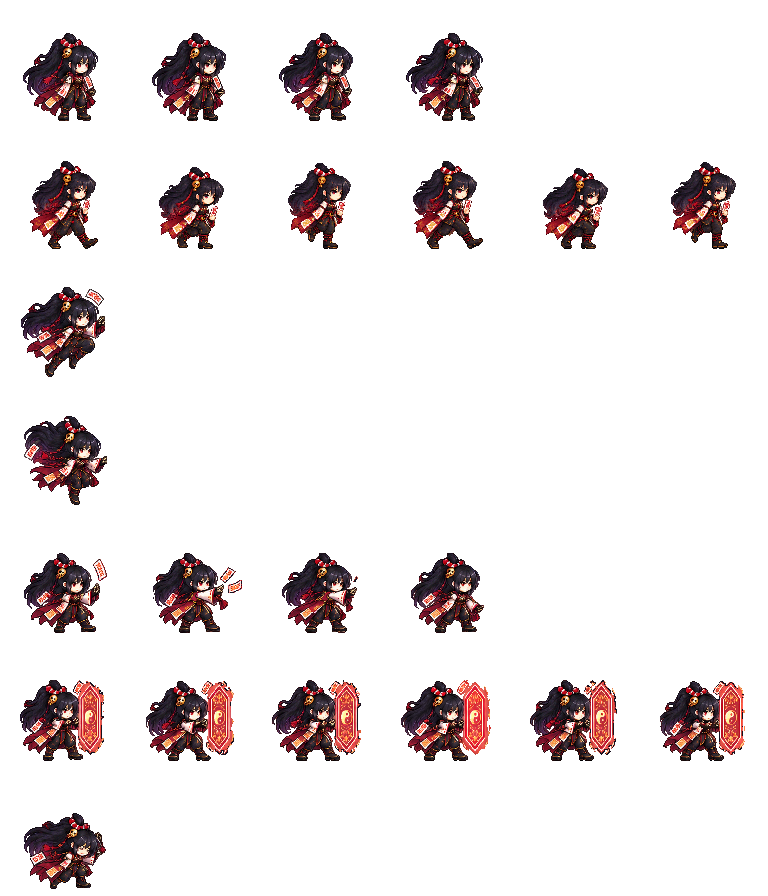
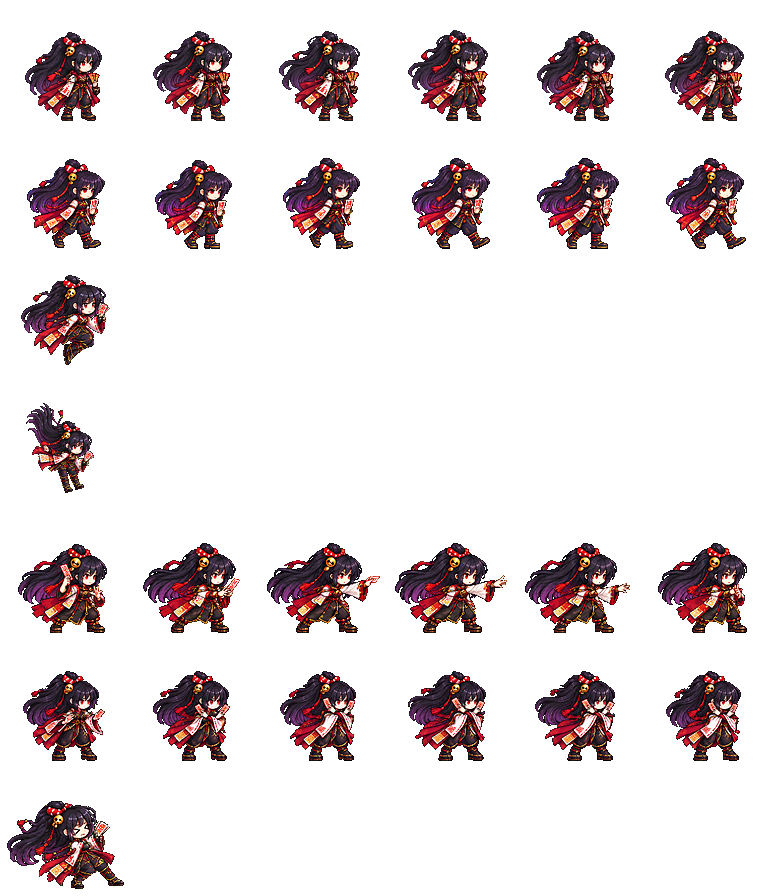
Yuki redrawn in the game: 6-frame rows, 192-px move sheet, a new tumble row, idle 6.3 fps
The user adopted every Yuki candidate.
- yuki_sheet (128): idle 6 @6.3, walk 6, jump/fall/hurt 1, attack 6 (fallback; every J plays a
  talisman row), shield 6 - Yuki.SHEET_ROWS.
- yuki_moves_sheet (192): talisman side/up/air-side/air-down, ground_ward, seal_place,
  seal_activate, grand_ward at 6 frames (same lengths), and tumble (new: strong launches played the
  hurt frame before).
test_moves_sheet plays Yuki's tumble from a strong launch; without the sheet it keeps the hurt
frame. Full suite passes (soak 272.4 s, nan 0).

diff --git a/design/ROADMAP.md b/design/ROADMAP.md
@@ -63,7 +63,7 @@
 - [x] 공격 범위·이펙트 ×2 → ×1.5 (2026-10-09 사용자), 렐름 ×1.5 (2026-10-08 근무, D27): `scripts/GameScale.gd`, 카메라 추적 + 화면 밖 상대 화살표, 기본 공격·스킬 이펙트 아트 16종(Codex ART-13). 16판 전후: 길이 중앙값 271 → 307초, 승률 쏠림 완화(Frey 56 → 25%). 남은 것: 렐름 배경 아트를 큰 크기로 다시 그릴지(지금은 1.5배 확대), 배율 느낌(사람)
 - [x] 실제 화면 아트 QA와 보강 (2026-10-08 오후): Codex QA-15(71장) → HUD 정리(D29) + Codex ART-14~17(효과·궁극기 1배, 렐름 배경 1.5배, 공격 아트 2배, 위험 요소 3부분 기둥·지진 균열·Yuki 부적·몬스터 테두리), 스킬 아이콘 24개(Codex ART-18). 남은 것(사람): 불기둥 이음매 작은 돌기, 몬스터 테두리 강도, 아이콘 느낌
 - [x] 그림 대량 보강 (2026-10-10 저녁 루틴, Codex 빌더 3개 × 9카드 ART-23~31, 연결 코드까지 Codex): 기술별 스프라이트 줄 — Frey 8줄·Luna 6줄·Brave 9줄(날아감 포함), Nova 남·여·Yuki·Rio 남·여 각 8줄(로더: `<id>[_<body>]_moves_sheet.png`, 없으면 공격 4칸); 늘 도형이던 스킬 효과 18종 + 포털·봉인·붕괴·경고; 렐름 몬스터 7종(+ART-31 두 번째); 렐름 문장·컷인 띠·HUD 9-slice 틀·시작 화면 배경; 캐릭터별 타격 불꽃 6종·아머/기절 아이콘; Rio 공격·방어 줄 몸 크기 복원. 검사: `test_sprite_frames`가 기술 시트 가장자리도 검사. 남은 것(사람): 새 동작·효과·HUD의 느낌, Frey 착지 2칸 크기, Nova 효과 안쪽 옅은 결
-- [ ] 스프라이트 정상화 (2026-10-11~, D32 + CuSurvive 한 장 방식 `reports/sprite-method-analysis-2026-10-13.md`): 공통 정리 도구 `tools/sprite_pipeline/`(시트 배율 하나·발 y=120·팔레트·1px 테두리·생성 칸 넘침 검사), 전체 점검 QA-18(476프레임, 다시 그림 6줄 · 손질 대부분은 이펙트가 그림에 박힌 것), 후보 `art/bakeoff/`(캐릭터마다 새 기준 대기 + Frey 6줄 · Rio 여 3줄 · Nova 남·여 · Brave · Luna · Yuki) — **사용자가 모션 뷰어에서 채택 → 리드가 게임 시트에 반영**. 다음: 이펙트를 뺀 나머지 줄, Rio 남, 몬스터 **Frey 완료 (2026-10-14, D33~D35, ART-37~41):** 13동작을 6프레임·머리 크기 0.96~1.02로 다시 그려 게임에 넣었다(기본 시트 128, 기술 시트 192, J 3연타는 기술 시트 `attack_chain`). 나머지 캐릭터도 같은 방식으로 한 명씩 진행한다. **Luna·Brave Luna 완료 (2026-10-14, D36·D37, ART-42~46):** Brave는 사용자가 고른 ② 포니테일 전투복, 궁극기는 12프레임 특별 변신(1초, 착지 프레임에서 변신·폭발), 모든 대기 동작 6.3fps. 다음: Yuki(ART-48~), 메인 아트(ART-47).
+- [ ] 스프라이트 정상화 (2026-10-11~, D32 + CuSurvive 한 장 방식 `reports/sprite-method-analysis-2026-10-13.md`): 공통 정리 도구 `tools/sprite_pipeline/`(시트 배율 하나·발 y=120·팔레트·1px 테두리·생성 칸 넘침 검사), 전체 점검 QA-18(476프레임, 다시 그림 6줄 · 손질 대부분은 이펙트가 그림에 박힌 것), 후보 `art/bakeoff/`(캐릭터마다 새 기준 대기 + Frey 6줄 · Rio 여 3줄 · Nova 남·여 · Brave · Luna · Yuki) — **사용자가 모션 뷰어에서 채택 → 리드가 게임 시트에 반영**. 다음: 이펙트를 뺀 나머지 줄, Rio 남, 몬스터 **Frey 완료 (2026-10-14, D33~D35, ART-37~41):** 13동작을 6프레임·머리 크기 0.96~1.02로 다시 그려 게임에 넣었다(기본 시트 128, 기술 시트 192, J 3연타는 기술 시트 `attack_chain`). 나머지 캐릭터도 같은 방식으로 한 명씩 진행한다. **Luna·Brave Luna 완료 (2026-10-14, D36·D37, ART-42~46):** Brave는 사용자가 고른 ② 포니테일 전투복, 궁극기는 12프레임 특별 변신(1초, 착지 프레임에서 변신·폭발), 모든 대기 동작 6.3fps. 다음: Yuki(ART-48~), 메인 아트(ART-47). **Yuki 완료 (2026-10-14, ART-48~50):** 16줄 6프레임(새 `tumble` 포함), 메인 아트 새로. **메인 아트:** Frey 1·Luna 1·Brave Luna 1(ART-47). 남은 캐릭터: Nova(남·여), Rio(남·여).
 - 캐릭터 선택창(메인 일러스트 전신 사용), 일반 효과(`assets/art/effects/`)도 1배 해상도로 맞출지
 - 제목 'Smash Nine Realms'는 가제 — 로고는 임시
 - 효과음·히트 사운드, 게임패드

diff --git a/smash-nine-prototype/assets/art/yuki/yuki_moves_README.md b/smash-nine-prototype/assets/art/yuki/yuki_moves_README.md
@@ -1,36 +1,33 @@
-# Yuki move sheet
+# Yuki sheets (redrawn 2026-10-14, D33–D37)
 
-`yuki_moves_sheet.png` supplements Yuki's seven-row live sheet with per-move poses.
+Both Yuki sheets were rebuilt from the accepted motion-viewer candidates (`art/bakeoff/yuki/`, cards `design/tasks/CODEX-ART-48.md` and `CODEX-ART-49.md`) with `tools/sprite_pipeline/assemble.py`, pixel for pixel. The method is the Frey and Luna method (`reports/frey-rework-2026-10-14.md`).
 
-## Contract
+Detail target for Yuki: at least 90 % of her old idle's interior detail (≥ 80). Her black hair and dark clothes give less contrast than Frey's or Luna's, so the flat 90 does not apply.
 
-- Canvas: 768×1024 RGBA PNG
-- Grid: 6 columns × 8 rows, 128×128 per cell
-- Facing right; used frames left-aligned; unused cells transparent
+## `yuki_sheet.png`: base sheet (128 px, feet y=120, rows `Yuki.SHEET_ROWS`)
 
-| Row | Animation | Frames | Timing / preview fps | Input and move | Pose sequence |
-|---:|---|---:|---|---|---|
-| 0 | `talisman_side` | 4 | 0.21s / 19.0fps | ground neutral/side J | sign → draw → flick → recover |
-| 1 | `talisman_up` | 4 | 0.24s / 16.7fps | up J, air up J | low sign → raise → upward flare → recover |
-| 2 | `ground_ward` | 4 | 0.26s / 15.4fps | ground down J | step → sweep → low ward → recover |
-| 3 | `talisman_air_side` | 4 | 0.18s / 22.2fps | air side J | tuck → draw → straight throw → recoil |
-| 4 | `talisman_air_down` | 4 | 0.27s / 14.8fps | air down J | turn → aim down → falling cast → float |
-| 5 | `seal_place` | 5 | 0.32s / 15.6fps | K · place seal | focus → draw → aim → place → sign |
-| 6 | `seal_activate` | 5 | 0.30–0.32s / 15.6–16.7fps | L · activate seals / emergency ward | gather → sign → lift → ignite → recover |
-| 7 | `grand_ward` | 6 | 0.62s / 9.7fps | I · Grand Ward start | focus → complex sign → orbit → glyph → cast → recover |
+| Row | Frames | FPS | Source |
+| --- | ---: | ---: | --- |
+| idle | 6 | 6.3 (D37) | `yuki-idle-v2` (the anchor, 2.5 heads) |
+| walk | 6 | 10 | `yuki-walk-v1` |
+| jump | 1 | 1 | `yuki-jump-v1` |
+| fall | 1 | 1 | `yuki-fall-v1` |
+| attack | 6 | 28.5 | `yuki-attack-v1`: a fallback only, since every J plays a talisman row |
+| shield | 6 | 12 | `yuki-shield-v1` |
+| hurt | 1 | 1 | `yuki-hurt-v1` |
 
-## Source and prompt
+## `yuki_moves_sheet.png`: move sheet (192 px, feet y=152, D34)
 
-- Built-in ImageGen source: `yuki_moves_source.png` (1160×1355).
-- References: `yuki_sheet.png` for scale/pixels and `yuki_illustration.png` for identity.
-- Prompt invariant: same high ponytail, red-white cord, plum/vermilion/ivory shrine coat,
-  talismans and yin-yang clasp; eight ordered rows; hard pixels; transparent; no text.
+| Row | Frames | FPS | Move | Source |
+| --- | ---: | ---: | --- | --- |
+| `talisman_side` | 6 | 28.5 | neutral/side J: a quick straight throw | `yuki-talisman_side-v3` |
+| `talisman_up` | 6 | 25 | up/air-up J | `yuki-talisman_up-v1` |
+| `ground_ward` | 6 | 23.1 | down J: slaps a talisman on the ground | `yuki-ground_ward-v2` (re-normalised to the anchor head) |
+| `talisman_air_side` | 6 | 33.3 | air-side J | `yuki-talisman_air_side-v1` |
+| `talisman_air_down` | 6 | 22.2 | air-down J | `yuki-talisman_air_down-v2` (re-normalised to the anchor head) |
+| `seal_place` | 6 | 18.7 | K: places a binding seal | `yuki-seal_place-v1` |
+| `seal_activate` | 6 | 19.2 | L: hand sign, palms out | `yuki-seal_activate-v1` |
+| `grand_ward` | 6 | 9.7 | I: the Four-Direction Grand Ward ritual | `yuki-grand_ward-v1` |
+| `tumble` | 6 | 21, loop | **new** strong-launch hitstun (before: the hurt frame) | `yuki-tumble-v2` (re-normalised to the anchor head) |
 
-## Processing and checks
-
-Godot `Image` processing uses dynamic row gutters and nearest reduction only (scale
-0.7040). Alpha is binary, unused cells are empty and components below 3px are removed.
-The neutral scale anchor is +1px from live idle dark-body height. The large red-orange
-`grand_ward` and `seal_activate` effects are intentionally dense; their contrast and
-the decorative unreadable marks on the papers need human review.
-
+No effects are drawn into these frames. The game draws the talismans in flight, the waves, the seals, the barrier and the pulses.

diff --git a/AGENTS.md b/AGENTS.md
@@ -98,6 +98,7 @@ A run fails if Godot prints `SCRIPT ERROR`, `ERROR` or `Parse Error`, even with 
 | builder + analyst (2026-10-11~13: D32 pilot and the CuSurvive one-sheet method) | `design/tasks/CODEX-ART-32.md` … `CODEX-ART-36.md`, `CODEX-QA-18.md`, prompt `CODEX-2026-10-13.prompt.md` | per card | ART-32 Frey rebuilt under D32 (pasted heads — replaced by ART-33 `c77f516`); ART-34 walk cycles `0cca2ce`, `90b7223`; ART-35 shared normaliser `tools/sprite_pipeline/` + viewer bake-off `5f83693`; QA-18 full sprite inspection (476 frames) `fcaaa7f`; ART-36 redraw **candidates** in `art/bakeoff/` (not game sheets; the user picks in the motion viewer) — see `routine/2026-10-13-work/` |
 | builder (2026-10-13~14: Frey alone, D33–D35) | `design/tasks/CODEX-ART-37.md` … `CODEX-ART-41.md` (+ `.prompt.md`) | per card | ART-37 detail-preserving shrink (LANCZOS + unsharp, despill, no palette) + 6-frame idle/J chain `885a268`; ART-38 the other 11 rows at 6 frames `c920893`; ART-39 head-size round (`tools/sprite_pipeline/head_scale.py`, lead tool) `de2dde2`; ART-40 move rows in 192-px cells at head scale 0.98–1.02 `2ec6d70`; ART-41 descent redone as a dive that slams the sword in `89d312d`. User accepted all (D35: this is the sprite method from now on); **in the game** `7891527` (192-px move sheet support `cad83cd`, `assemble.py`, adopted candidates flagged `"adopted"`) — see `reports/frey-rework-2026-10-14.md` |
 | builder ×2 (2026-10-14: Luna and Brave Luna, D36/D37) | `design/tasks/CODEX-ART-42.md` … `CODEX-ART-46.md` (+ `.prompt.md`) | per card | ART-42 anchors (not kept: Luna head 0.92 → 2.4 heads, Brave held stars); ART-43 Luna anchor at 2.2 heads + 11 rows; ART-44 three Brave designs → user picked ②; ART-45 Brave rows; ART-46 the special 12-frame transformation (lead re-normalised: it came out 1.2× big). All **in the game** — see `reports/luna-rework-2026-10-14.md` |
+| builder ×2 (2026-10-14: main art, Yuki) | `design/tasks/CODEX-ART-47.md` … `CODEX-ART-50.md` (+ `.prompt.md`) | per card | ART-47 main art for Frey, Luna, Brave Luna (2 variants each; user picked Frey 1, Luna 1 — Luna 2 had a wrong arm —, Brave 1) `c7a99bf`; ART-48 Yuki anchor; ART-49 Yuki rows (lead re-normalised ground_ward, air_down, tumble to the anchor head); ART-50 Yuki main art. Yuki **in the game** — see `reports/yuki-rework-2026-10-14.md` |
 
 Units never edit product source (`smash-nine-prototype/scripts/`, `characters/`, `scenes/`, `project.godot`). Findings go to the lead.
 

diff --git a/reports/yuki-rework-2026-10-14.md b/reports/yuki-rework-2026-10-14.md
@@ -1,0 +1,29 @@
+# Yuki 스프라이트 재작업 (2026-10-14)
+
+## 요청
+- "그 다음으로 Yuki를 같은 방식으로 작업 해볼 것."
+- 결과에 대해: "Ok. 마음에 든다. 이대로 전부 채택. Yuki의 메인 아트도 새로 그려서 넣을것."
+
+## 진행 (D35 방식)
+1. **기준 대기 동작(ART-48):** 2.5등신, 키 89~91px(예전 88), 머리 1.02, 6.3fps(D37).
+   - 디테일 84.5는 Frey·Luna 기준 절대값 90에 못 미쳤다. 하지만 예전 Yuki 대기 동작이 89.4이고, 검은 머리와 어두운 옷이라 명암 차이가 원래 작다. 그래서 "예전 대기 동작의 90% 이상(80)"으로 바로잡고 채택했다.
+2. **나머지 15줄(ART-49):** 걷기, 점프·낙하·피격, 방어, 기본 공격 예비 줄, 부적 던지기 5종, 봉인 설치·발동, 사방봉진, 그리고 새 줄 `tumble`.
+3. **리드 검수:** 머리 측정기는 Yuki의 옅은 피부에서 신뢰도가 낮았다. 그래서 머리를 4배로 잘라 비교하고 금방울 크기를 쟀다. 아래 셋은 머리가 1.1~1.3배 커서 같은 원본에서 배율을 줄였다.
+
+   | 줄 | 배율 |
+   | --- | --- |
+   | 아래 퇴마 | 0.294 → 0.242 |
+   | 공중 아래 던지기 | 0.2635 → 0.240 |
+   | 회전 | 0.311 → 0.255 |
+
+## 게임에 들어간 것
+- 기본 시트(128px): 대기 6(6.3fps), 걷기 6, 점프·낙하·피격 1, 공격 6(예비 줄), 방어 6.
+- 기술 시트(192px, 9줄): 부적 옆·위·공중 옆·공중 아래, 아래 퇴마, 봉인 설치·발동, 사방봉진, **새 `tumble`**. 강하게 날아가면 이제 피격 한 프레임 대신 회전 동작이 나온다.
+- 모든 동작의 길이는 예전과 같다(fps × 6 / 예전 프레임 수).
+
+## 검사
+- `test_moves_sheet`에 Yuki `tumble` 확인을 더했다. 강한 띄우기로 재생되고, 기술 시트가 없으면 피격 프레임으로 돌아간다.
+- 전체 검사 결과는 커밋 메시지에 적는다.
+
+## 메인 아트
+Codex가 두 가지를 그렸다(ART-50). 리드가 원본 크기로 손·팔까지 확인하고 나은 것을 넣는다. 두 안은 사용자에게 보여 준다.

diff --git a/smash-nine-prototype/characters/yuki/Yuki.md b/smash-nine-prototype/characters/yuki/Yuki.md
@@ -58,6 +58,12 @@
 
 **궁극기 조정 2026-10-08:** 펄스 피해 4(기존 3), 마지막 펄스 16(기존 12, 기절 1.2초), 결계 안 끌어당김 240(기존 190), 궁극기 창 3.8초(마지막 펄스가 시전 약 3.57초 뒤). 결계는 Yuki가 패배하거나 렐름을 떠나면 사라짐. 결계 아트는 캐릭터 뒤에 반투명(0.4)으로 깔리고 마지막에 폭발 아트. 1회당 피해 약 9 → 12.0(처음 측정 5.5는 마지막 펄스를 빠뜨린 값이었고, 그 값을 보고 6/32까지 올렸다가 21.3이 나와 되돌림). 공통(2026-10-08 루틴, D26): 시전하면 얼굴 컷인 띠·화면 번쩍임·흔들림, 궁극기 창 안의 적중은 히트스톱 2.2배, 이펙트 아트는 `assets/art/vfx/`.
 
+**스프라이트 재작업 (2026-10-14, D33–D37):**
+- 모든 동작을 6프레임으로 하고, 디테일을 살리고, 머리 크기를 맞춰 다시 그렸다(`assets/art/yuki/yuki_moves_README.md`).
+- 대기 동작은 6.3fps다.
+- 강하게 날아가면 새 `tumble` 줄이 재생된다(예전엔 피격 한 프레임).
+- 메인 아트도 새로 그렸다(CODEX-ART-50).
+
 ## Combat Flow
 
 `K로 이동 경로에 봉인부 설치 -> J로 상대를 결계 쪽으로 유도 -> L로 흡입과 폭발 -> 위치를 바꾸며 다시 설치`

diff --git a/smash-nine-prototype/assets/art/yuki/README.md b/smash-nine-prototype/assets/art/yuki/README.md
@@ -1,5 +1,7 @@
 # Yuki original character sheet
 
+**2026-10-14: Yuki's sheets were redrawn (D33–D37).** The current contract is in `yuki_moves_README.md`. The sections below are history.
+
 `yuki_sheet.png` is the original-art candidate for Yuki, the female Eastern-myth
 onmyoji controller.
 
